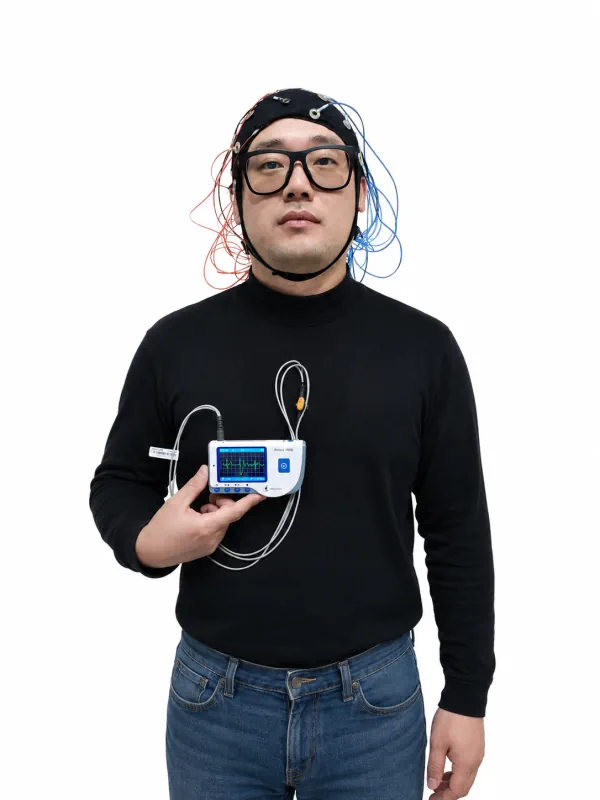
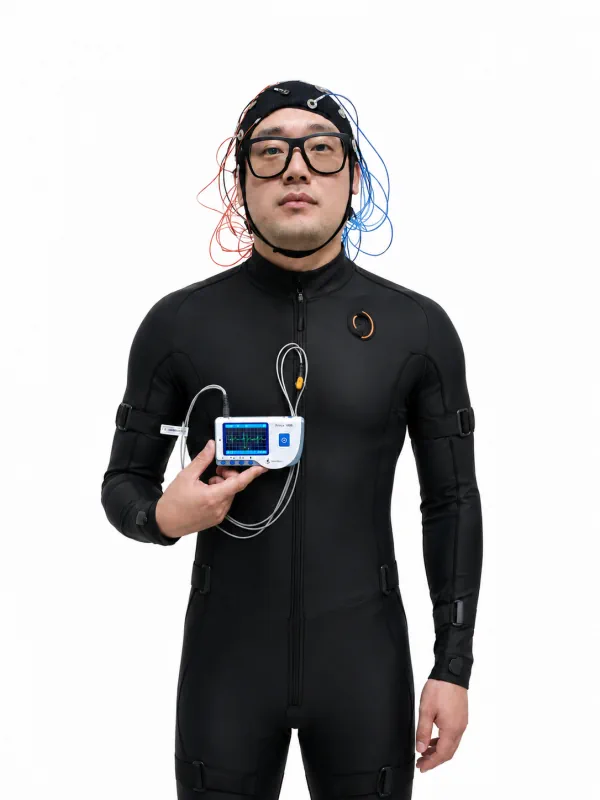
feat: update event dates and speaker portrait

Changed region(s): [[0.15, 0.0938, 0.84, 1.0]]

diff --git a/index.html b/index.html
@@ -587,7 +587,7 @@
       <span class="line l2" data-edit="hero.line2">DESIGN</span>
     </h1>
     <div class="hero-info">
-      <span data-edit="hero.i1">OCT 2027</span>
+      <span data-edit="hero.i1">22–25 MAR 2027</span>
       <span data-edit="hero.i2">Hybrid</span>
       <span data-edit="hero.i3">Sydney / Seoul</span>
       <span data-edit="hero.i4">Venue TBC</span>
@@ -603,7 +603,7 @@
 <!-- ============ ABOUT / VALUE ============ -->
 <section id="about" class="wrap reveal">
   <div class="kicker" data-edit="about.kicker">Event Overview</div>
-  <h2 class="display" data-edit="about.title">A single day, a decade of research on how space is felt.</h2>
+  <h2 class="display" data-edit="about.title">Four days, a decade of research on how space is felt.</h2>
   <p class="lead" data-edit="about.lead">Emotive Design reads the emotional and cognitive layers of spatial experience through EEG, eye-tracking, physiological signals, and machine intelligence — then returns that insight to design as adaptive, human-centred environments. The 2027 Roundabout marks the launch of the book of the same name.</p>
   <div class="value-grid">
     <div class="value">
@@ -674,7 +674,7 @@
       <div><b data-c="m">—</b><span>Minutes</span></div>
       <div><b data-c="s">—</b><span>Seconds</span></div>
     </div>
-    <p class="count-note">Target date <span data-edit="count.date">1 October 2027</span> · <span data-edit="count.place">Venue to be confirmed — Sydney or Seoul, hybrid format planned.</span></p>
+    <p class="count-note">Event dates <span data-edit="count.date">22–25 March 2027</span> · <span data-edit="count.place">Countdown reference: 09:00 AEDT on 22 March. Venue to be confirmed — Sydney or Seoul, hybrid format planned.</span></p>
   </div>
 </div>
 
@@ -683,7 +683,7 @@
 <section id="program" class="wrap reveal">
   <div class="kicker">Talks</div>
   <h2 class="display" data-edit="prog.title">Join the conversation.</h2>
-  <p class="lead" data-edit="prog.lead">A full-day proposal. The two book authors deliver the keynotes and three thematic sessions; the closing roundtable pairs the authors as chairs with invited discussants. Times are indicative.</p>
+  <p class="lead" data-edit="prog.lead">A four-day proposal. The two book authors deliver the keynotes and three thematic sessions; the closing roundtable pairs the authors as chairs with invited discussants. Times are indicative.</p>
   <div style="margin-top:40px">
     <div class="talk">
       <div class="time" data-edit="p1.time">09:00</div>
@@ -805,7 +805,7 @@
   <div class="kicker" style="justify-content:center">Save your spot</div>
   <h2 data-edit="fin.title">Join Emotive Design 2027</h2>
   <div class="info-line">
-    <span data-edit="fin.c1">OCT 2027</span>
+    <span data-edit="fin.c1">22–25 MAR 2027</span>
     <span data-edit="fin.c2">Hybrid</span>
     <span data-edit="fin.c3">Sydney / Seoul</span>
   </div>
@@ -937,10 +937,27 @@
       var legacyLabel=["sym","posium"].join("");
       var legacyPlural=["sym","posia"].join("");
       var labelPattern=new RegExp("\\b(?:"+legacyLabel+"|"+legacyPlural+")\\b","gi");
+      var legacyContent={
+        "hero.i1":"OCT 2027",
+        "count.date":"1 October 2027",
+        "count.place":"Venue to be confirmed — Sydney or Seoul, hybrid format planned.",
+        "fin.c1":"OCT 2027",
+        "about.title":"A single day, a decade of research on how space is felt.",
+        "prog.lead":"A full-day proposal. The two book authors deliver the keynotes and three thematic sessions; the closing roundtable pairs the authors as chairs with invited discussants. Times are indicative."
+      };
+      var currentContent={
+        "hero.i1":"22–25 MAR 2027",
+        "count.date":"22–25 March 2027",
+        "count.place":"Countdown reference: 09:00 AEDT on 22 March. Venue to be confirmed — Sydney or Seoul, hybrid format planned.",
+        "fin.c1":"22–25 MAR 2027",
+        "about.title":"Four days, a decade of research on how space is felt.",
+        "prog.lead":"A four-day proposal. The two book authors deliver the keynotes and three thematic sessions; the closing roundtable pairs the authors as chairs with invited discussants. Times are indicative."
+      };
       var textChanged=false;
       var migratedText=Object.keys(value.text).reduce(function(result,key){
         var original=value.text[key];
         var renamed=typeof original==="string"?original.replace(labelPattern,"Roundabout"):original;
+        if(renamed===legacyContent[key]) renamed=currentContent[key];
         if(renamed!==original) textChanged=true;
         result[key]=renamed;
         return result;
@@ -1344,7 +1361,7 @@
 
   /* ---- countdown ---- */
   function tick(){
-    var target = new Date(2027,9,1,9,0,0).getTime(); // 1 Oct 2027 09:00
+    var target = Date.parse("2027-03-22T09:00:00+11:00"); // 22 Mar 2027 09:00 AEDT
     var diff = Math.max(0, target-Date.now());
     var d=Math.floor(diff/864e5),h=Math.floor(diff%864e5/36e5),m=Math.floor(diff%36e5/6e4),s=Math.floor(diff%6e4/1e3);
     var set=function(k,v){var el=$('[data-c="'+k+'"]'); if(el) el.textContent=(v<10?"0":"")+v;};